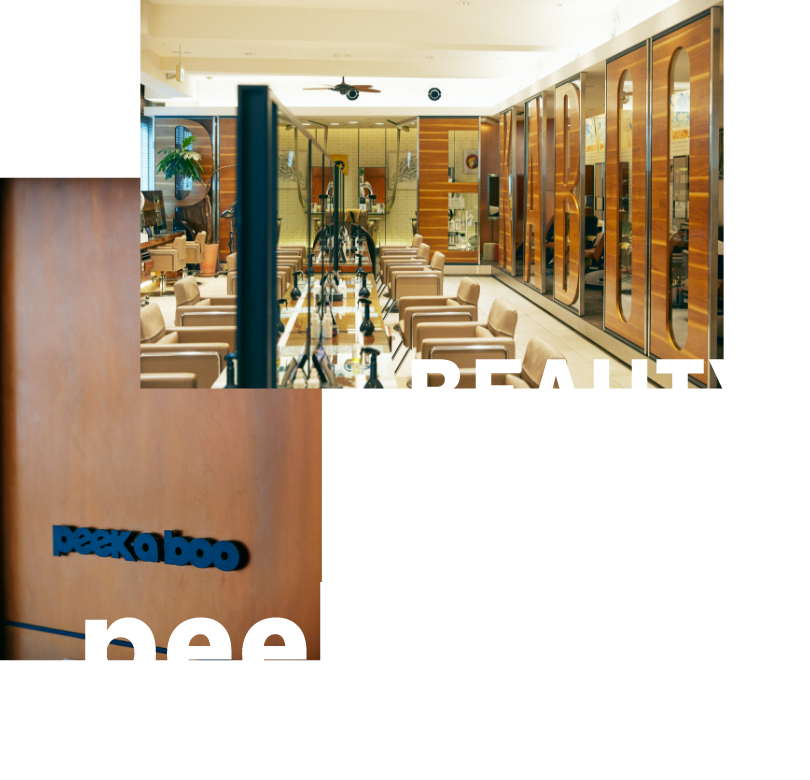
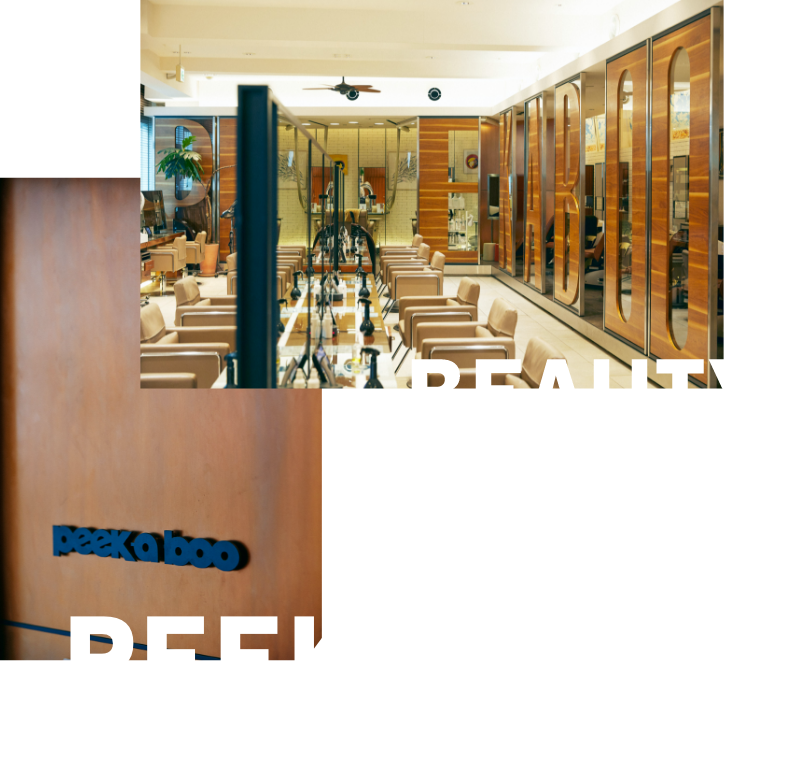
photo and script correction

Changed region(s): [[0.0617, 0.7692, 0.4012, 0.8615]]

diff --git a/articles/peek-a-boo/index.html b/articles/peek-a-boo/index.html
@@ -55,7 +55,7 @@
       <div class="article-container">
         <div class="article-lead-text-container reveal_tran_bt">
           <div class="article-lead-text">
-            日本美容師界の開祖と言われることもある川島文夫さんが『PEEK-A-BOO川島文夫美容室』をオープンさせたのは1977年のこと。現在都内に９店舗を展開し、今なおシーンをリードするPEEK-A-BOOが、LG stylerを取り入れた理由とは？　
+            日本美容師界の開祖と言われることもある川島文夫さんが『PEEK-A-BOO川島文夫美容室』をオープンさせたのは1977年のこと。現在都内に９店舗を展開し、今なおシーンをリードするPEEK-A-BOOが、LG Stylerを取り入れた理由とは？　
           </div>        
         </div>
         <div class="article-image article-image-2 reveal_tran_lr">
@@ -80,7 +80,7 @@
           <br>
           お客様におすすめする中で、気づいたことがあるそう。<br>
           <br>
-          「既にLGstylerを持っているという方が結構いらっしゃったんです。だからここにも導入してくれたありがたいというお声もいただきますし、もちろん初めての方にも、シワや匂いが軽減されてとても気分がいいと喜んでいただいています」
+          「既にLG Stylerを持っているという方が結構いらっしゃったんです。だからここにも導入してくれたありがたいというお声もいただきますし、もちろん初めての方にも、シワや匂いが軽減されてとても気分がいいと喜んでいただいています」
         </div>
         <div class="article-image article-image-5 reveal_tran_rl">
           <img src="assets/images/5.png">
